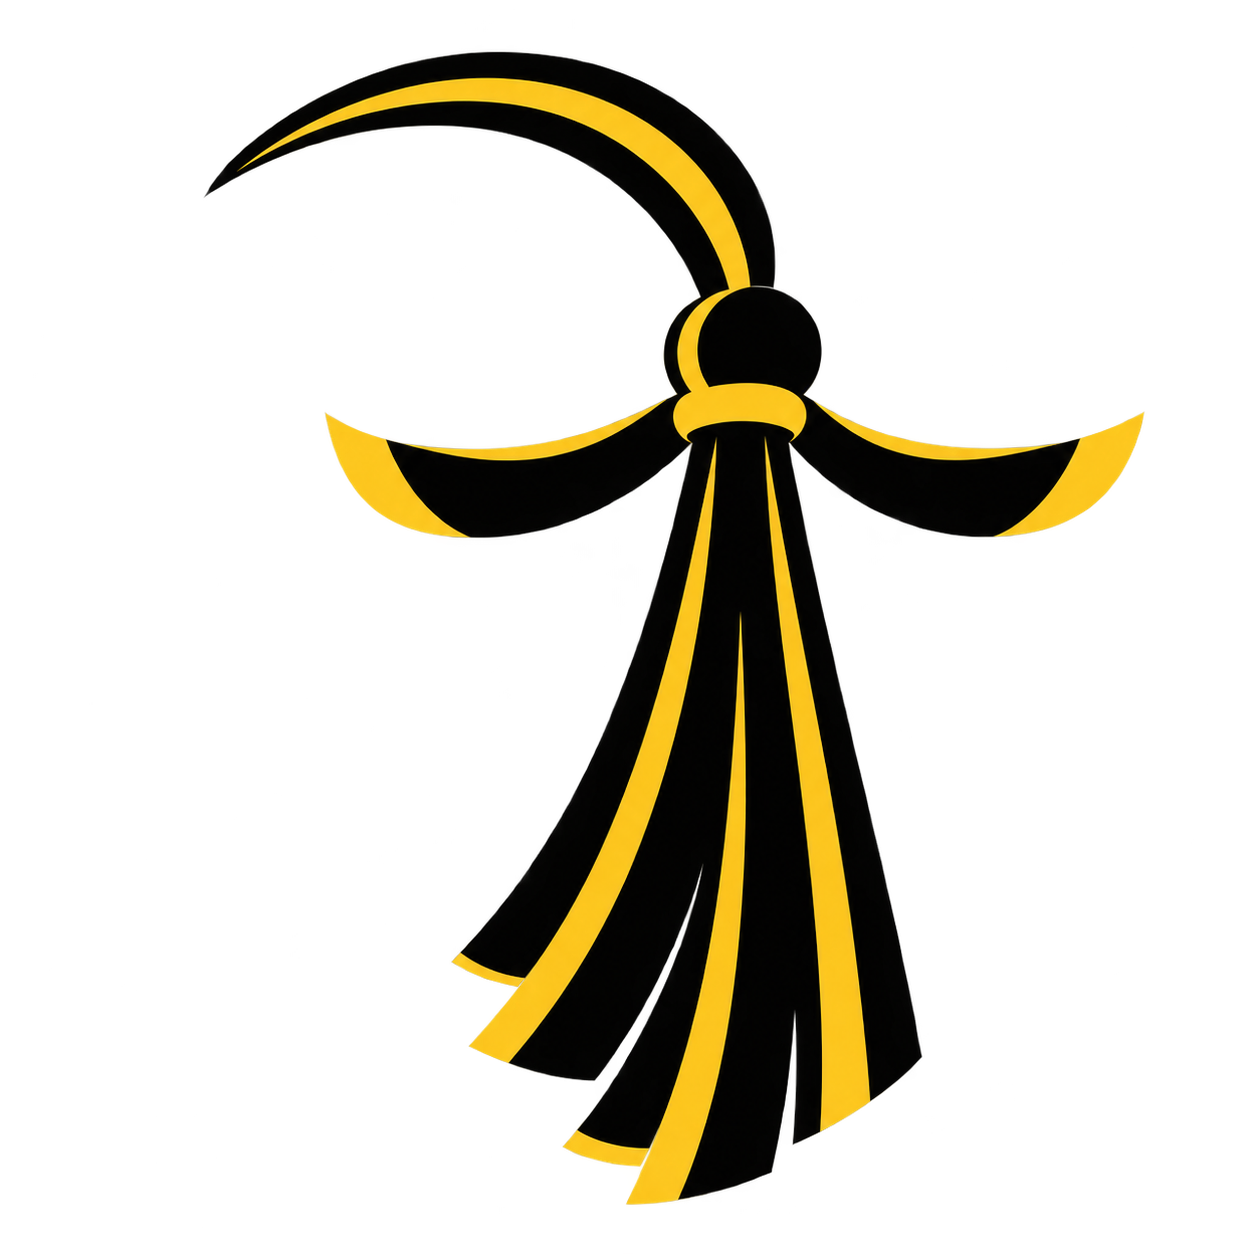
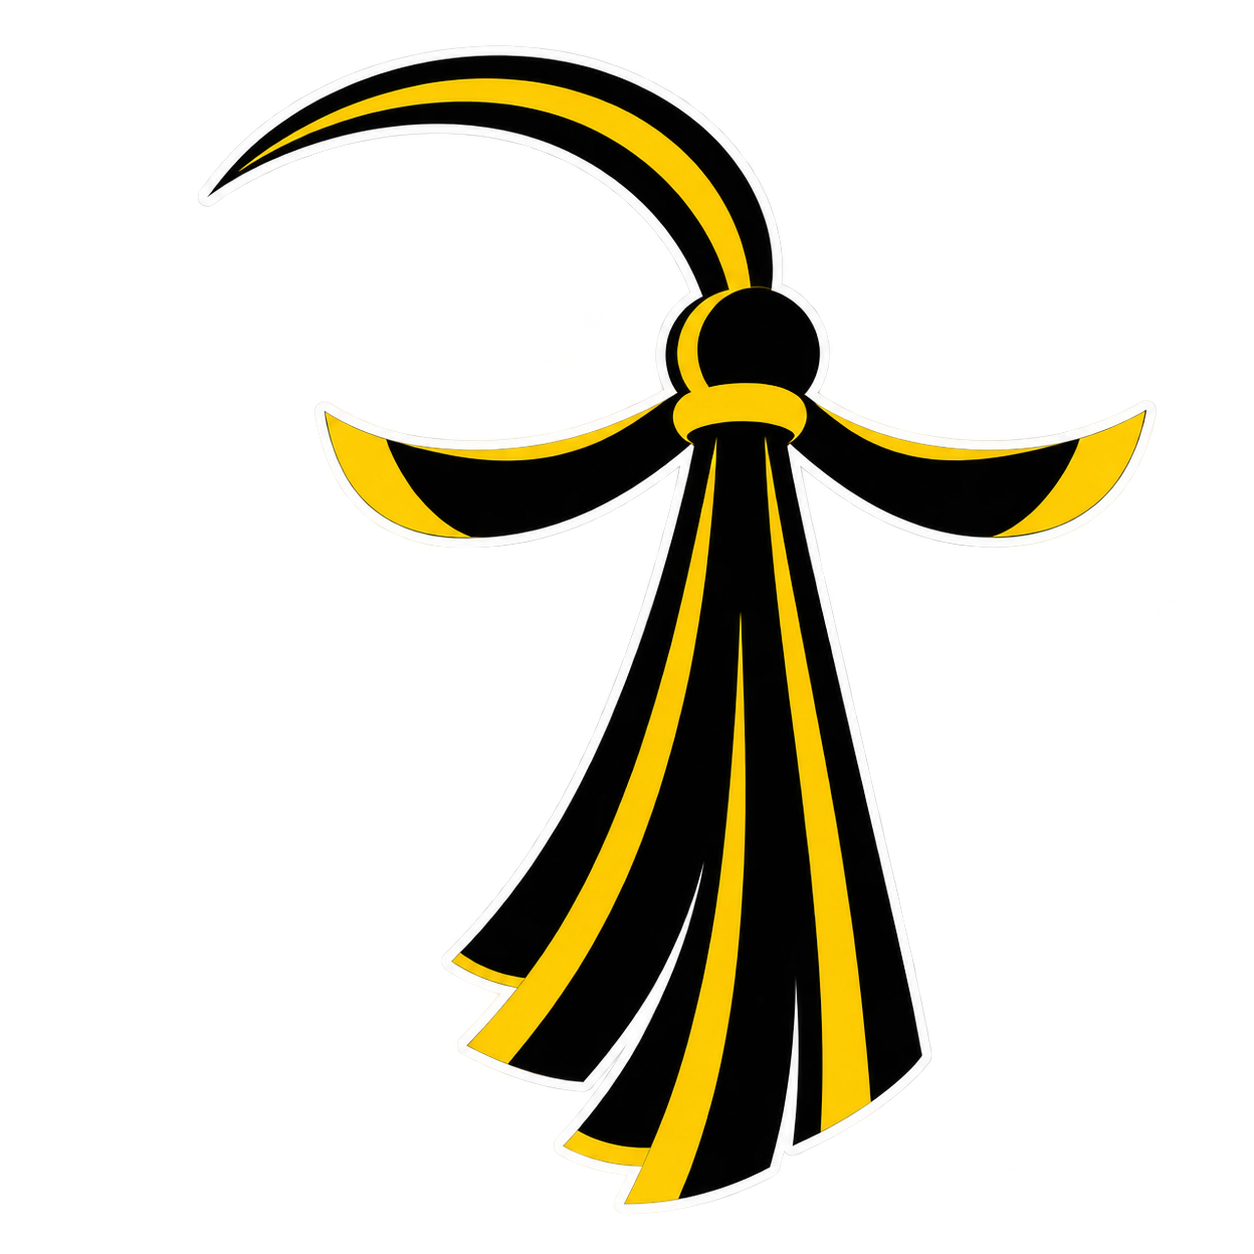
Refactor code structure for improved readability and maintainability

diff --git a/web/app/login/page.tsx b/web/app/login/page.tsx
@@ -223,7 +223,7 @@ export default function LoginPage() {
       <header className="tt-nav">
         <div className="tt-brand">
           <Image
-            src="/logo.png"
+            src="/logo-white.png"
             alt="TasselTrak logo"
             width={40}
             height={40}
